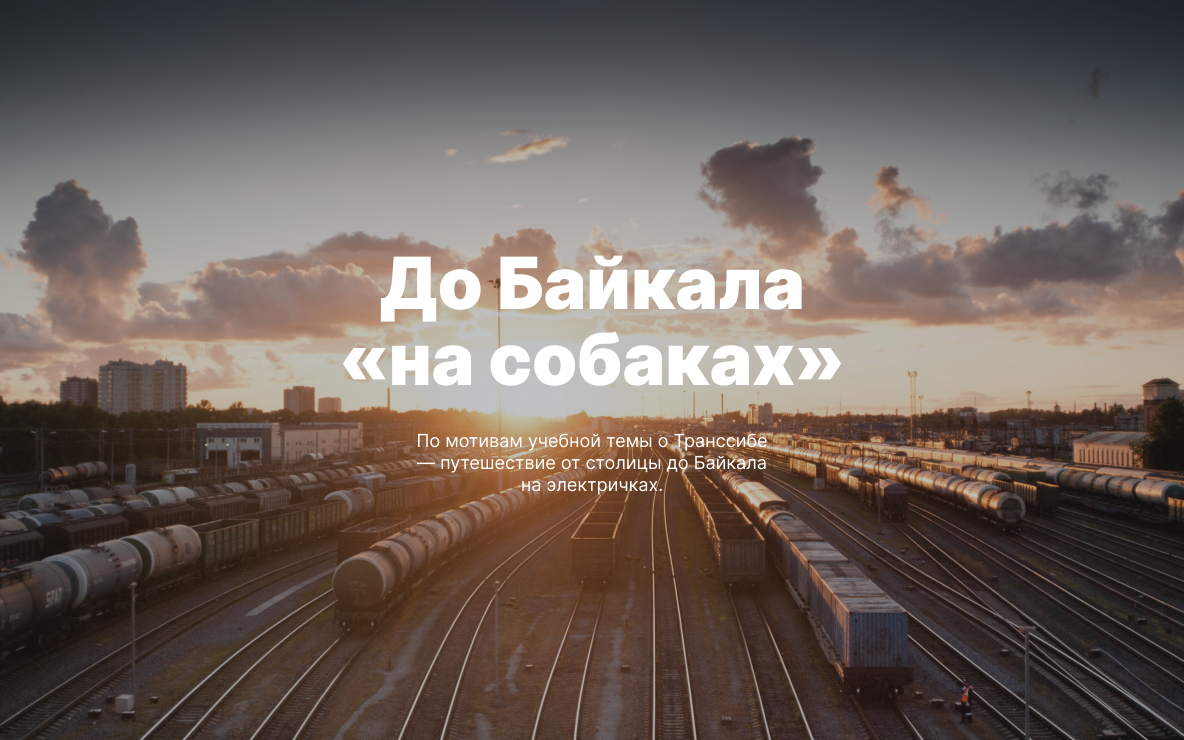
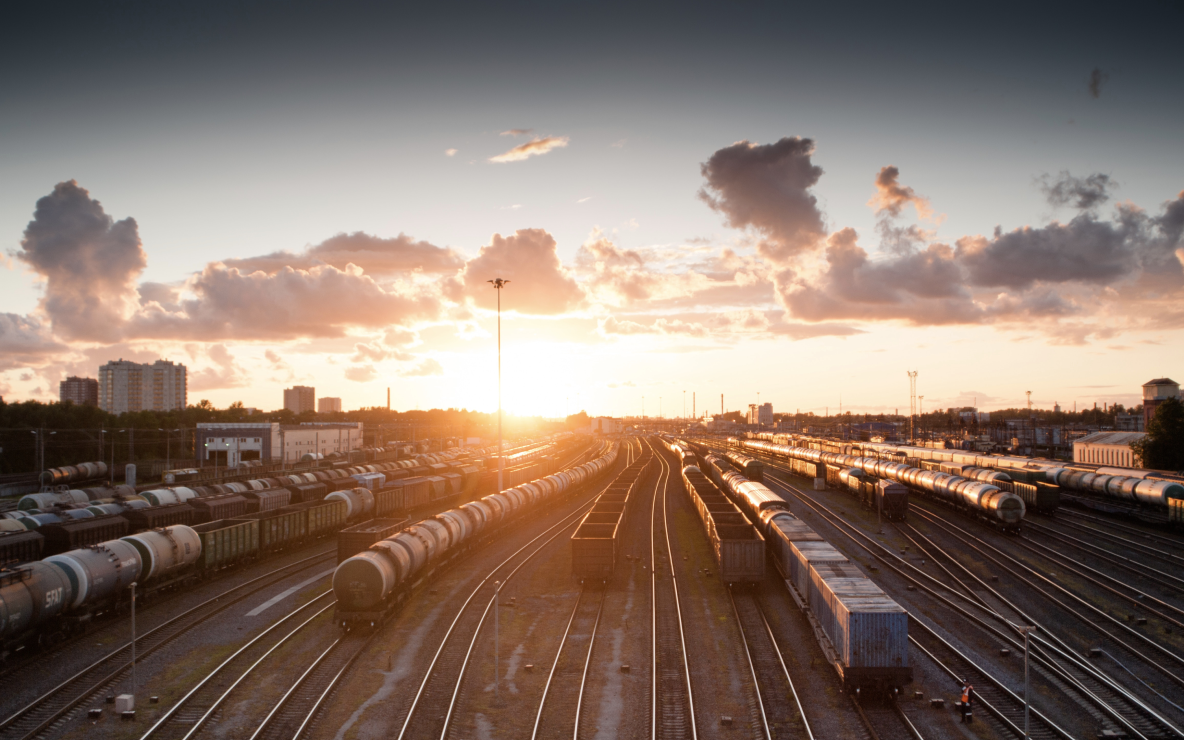
cover without titles fits well

diff --git a/blocks/cover/cover.css b/blocks/cover/cover.css
@@ -1,0 +1,60 @@
+.cover {
+    display: flex;
+    flex-direction: column;
+    align-items: center;
+    justify-content: center;
+    padding: 0 48px;
+    /*max-width: 1184px;*/
+    min-height: 740px;
+    /*background-image: url("../../images/to-baikal-cover.png");*/
+    /*background-repeat: no-repeat;*/
+    /*background-size: cover;*/
+    /*background-origin: content-box;*/
+    box-sizing: border-box;
+    position: relative;
+}
+
+/*.cover::after {*/
+/*    content: '';*/
+/*    display: block;*/
+/*    opacity: 30%;*/
+/*    top: 0;*/
+/*    left: 0;*/
+/*    !*background-color: #2A2C2F;*!*/
+/*    background-color: red;*/
+/*    position: absolute;*/
+/*    height: 100%;*/
+/*    width: 100%;*/
+/*}*/
+
+/*.cover:hover:after {*/
+/*    opacity: 70%;*/
+/*}*/
+
+
+@media screen and (max-width:1024px) {
+    .cover {
+        /*width: 100%;*/
+        padding-right: 0;
+        padding-left: 0;
+        min-height: 640px;
+    }
+}
+
+@media screen and (max-width:768px) {
+    .cover {
+        width: 100%;
+        padding-right: 0;
+        padding-left: 0;
+        min-height: 480px;
+    }
+}
+
+@media screen and (max-width:320px) {
+    .cover {
+        width: 100%;
+        padding-right: 0;
+        padding-left: 0;
+        min-height: 200px;
+    }
+}

diff --git a/index.html b/index.html
@@ -181,7 +181,23 @@
                     </article>
                 </div>
             </section>
+            <section class="cover">
+                <a href="#" class="cover__link">
+                    <h2 class="cover__title">До Байкала «на собаках»</h2>
+                    <p class="cover__subtitle">По мотивам учебной темы о Транссибе — путешествие от столицы до Байкала на электричках.</p>
+                </a>
 
+            </section>
+            <div class="footer">
+                <nav class="footer__links">
+                    <a href="" class="footer__link">Карты</a>
+                    <a href="" class="footer__link">Погода</a>
+                    <a href="" class="footer__link">Расписание</a>
+                    <a href="" class="footer__link">Календарь</a>
+                    <a href="" class="footer__link">Путешествия</a>
+                </nav>
+                <span class="footer__copyright">&copy2020 Иван Роговский.</span>
+            </div>
         </div>
         </div>
 </body>

diff --git a/blocks/footer/footer.css b/blocks/footer/footer.css
@@ -1,0 +1,55 @@
+.footer {
+    padding: 92px 48px 24px;
+    font-size: 16px;
+    line-height: 1.125;
+    font-weight: 400;
+    display: flex;
+    justify-content: space-between;
+    align-items: center;
+}
+
+@media screen and (max-width:768px) {
+    .footer {
+        padding: 88px 24px 24px;
+    }
+}
+
+@media screen and (max-width:695px) {
+    .footer {
+        padding: 88px 18px 18px;
+    }
+}
+
+@media screen and (max-width:684px) {
+    .footer {
+        padding: 88px 12px 12px;
+        font-size: 14px;
+    }
+}
+
+@media screen and (max-width:580px) {
+    .footer {
+        padding: 88px 12px 12px;
+        font-size: 12px;
+    }
+}
+
+@media screen and (max-width:440px) {
+    .footer {
+        font-size: 26px;
+        line-height: 1;
+        padding: 44px 84px 24px 16px;
+        flex-direction: column;
+        justify-content: center;
+    }
+}
+
+@media screen and (max-width:320px) {
+    .footer {
+        font-size: 24px;
+        line-height: 1;
+        padding: 64px 118px 24px 16px;
+        flex-direction: column;
+        justify-content: center;
+    }
+}

diff --git a/blocks/cover/__link/cover__link.css b/blocks/cover/__link/cover__link.css
@@ -1,0 +1,47 @@
+.cover__link {
+    background-image: url(../../../images/to-baikal-cover.png);
+    background-repeat: no-repeat;
+    background-size: contain;
+    background-origin: content-box;
+    display: block;
+    min-width: 100%;
+    min-height: 740px;
+    box-sizing: inherit;
+    width: 100%;
+}
+
+
+.cover__link::after {
+    content: '';
+    display: block;
+    opacity: 30%;
+    top: 0;
+    left: 0;
+    /*background-color: #2A2C2F;*/
+    background-color: red;
+    position: absolute;
+    height: 100%;
+    width: 100%;
+}
+
+.cover__link:hover:after {
+    opacity: 70%;
+}
+
+@media screen and (max-width:1024px) {
+    .cover__link {
+        min-height: 640px;
+    }
+}
+
+@media screen and (max-width:768px) {
+    .cover__link {
+        min-height: 480px;
+    }
+}
+
+@media screen and (max-width:320px) {
+    .cover__link {
+        min-height: 200px;
+    }
+}

diff --git a/pages/index.css b/pages/index.css
@@ -38,4 +38,12 @@
 
 @import url(../blocks/place/__website-address-title/place__website-address-title.css);
 
+@import url(../blocks/cover/cover.css);
+@import url(../blocks/cover/__link/cover__link.css);
+@import url(../blocks/cover/__title/cover__title.css);
+@import url(../blocks/cover/__subtitle/cover__subtitle.css);
 
+@import url(../blocks/footer/footer.css);
+@import url(../blocks/footer/__links/footer__links.css);
+@import url(../blocks/footer/__link/footer__link.css);
+@import url(../blocks/footer/__copyright/footer__copyright.css);

diff --git a/blocks/footer/__copyright/footer__copyright.css b/blocks/footer/__copyright/footer__copyright.css
@@ -1,0 +1,30 @@
+.footer__copyright {
+    font-size: 14px;
+    border: 1px solid red;
+}
+
+@media screen and (max-width:670px) {
+    .footer__copyright {
+        font-size: 12px;
+    }
+}
+
+@media screen and (max-width:580px) {
+    .footer__copyright {
+        font-size: 10px;
+    }
+}
+
+@media screen and (max-width:440px) {
+    .footer__copyright {
+        font-size: 14px;
+    }
+}
+
+
+@media screen and (max-width:320px) {
+    .footer__copyright {
+        text-align: left;
+        font-size: 14px;
+    }
+}

diff --git a/blocks/footer/__link/footer__link.css b/blocks/footer/__link/footer__link.css
@@ -1,0 +1,29 @@
+.footer__link {
+    text-decoration: none;
+    color: #FFFFFF;
+    margin-right: 18px;
+}
+
+@media screen and (max-width:600px) {
+    .footer__link {
+        margin-right: 14px;
+    }
+}
+
+@media screen and (max-width:508px) {
+    .footer__link {
+        margin-right: 12px;
+    }
+}
+
+@media screen and (max-width:440px) {
+    .footer__link {
+        margin-bottom: 32px;
+    }
+}
+
+@media screen and (max-width:320px) {
+    .footer__link {
+        margin-bottom: 32px;
+    }
+}

diff --git a/blocks/cover/__subtitle/cover__subtitle.css b/blocks/cover/__subtitle/cover__subtitle.css
@@ -1,0 +1,18 @@
+.cover__subtitle {
+    max-height: 66px;
+    max-width: 360px;
+    font-size: 18px;
+    line-height: 1.22;
+    margin: 0;
+    z-index: 1;
+    text-align: center;
+}
+
+@media screen and (max-width:320px) {
+    .cover__subtitle {
+        max-height: 48px;
+        max-width: 288px;
+        font-size: 14px;
+        line-height: 1.14;
+    }
+}

diff --git a/blocks/cover/__title/cover__title.css b/blocks/cover/__title/cover__title.css
@@ -1,0 +1,15 @@
+.cover__title {
+    font-size: 72px;
+    line-height: 1.05;
+    max-width: 560px;
+    text-align: center;
+    z-index: 1;
+}
+
+@media screen and (max-width:320px) {
+    .cover__title {
+        max-width: 288px;
+        font-size: 32px;
+        margin: 0 0 16px;
+    }
+}

diff --git a/blocks/footer/__links/footer__links.css b/blocks/footer/__links/footer__links.css
@@ -1,0 +1,15 @@
+.footer__links {
+    display: flex;
+}
+
+@media screen and (max-width:440px) {
+    .footer__links {
+        flex-direction: column;
+    }
+}
+
+@media screen and (max-width:320px) {
+    .footer__links {
+        flex-direction: column;
+    }
+}
